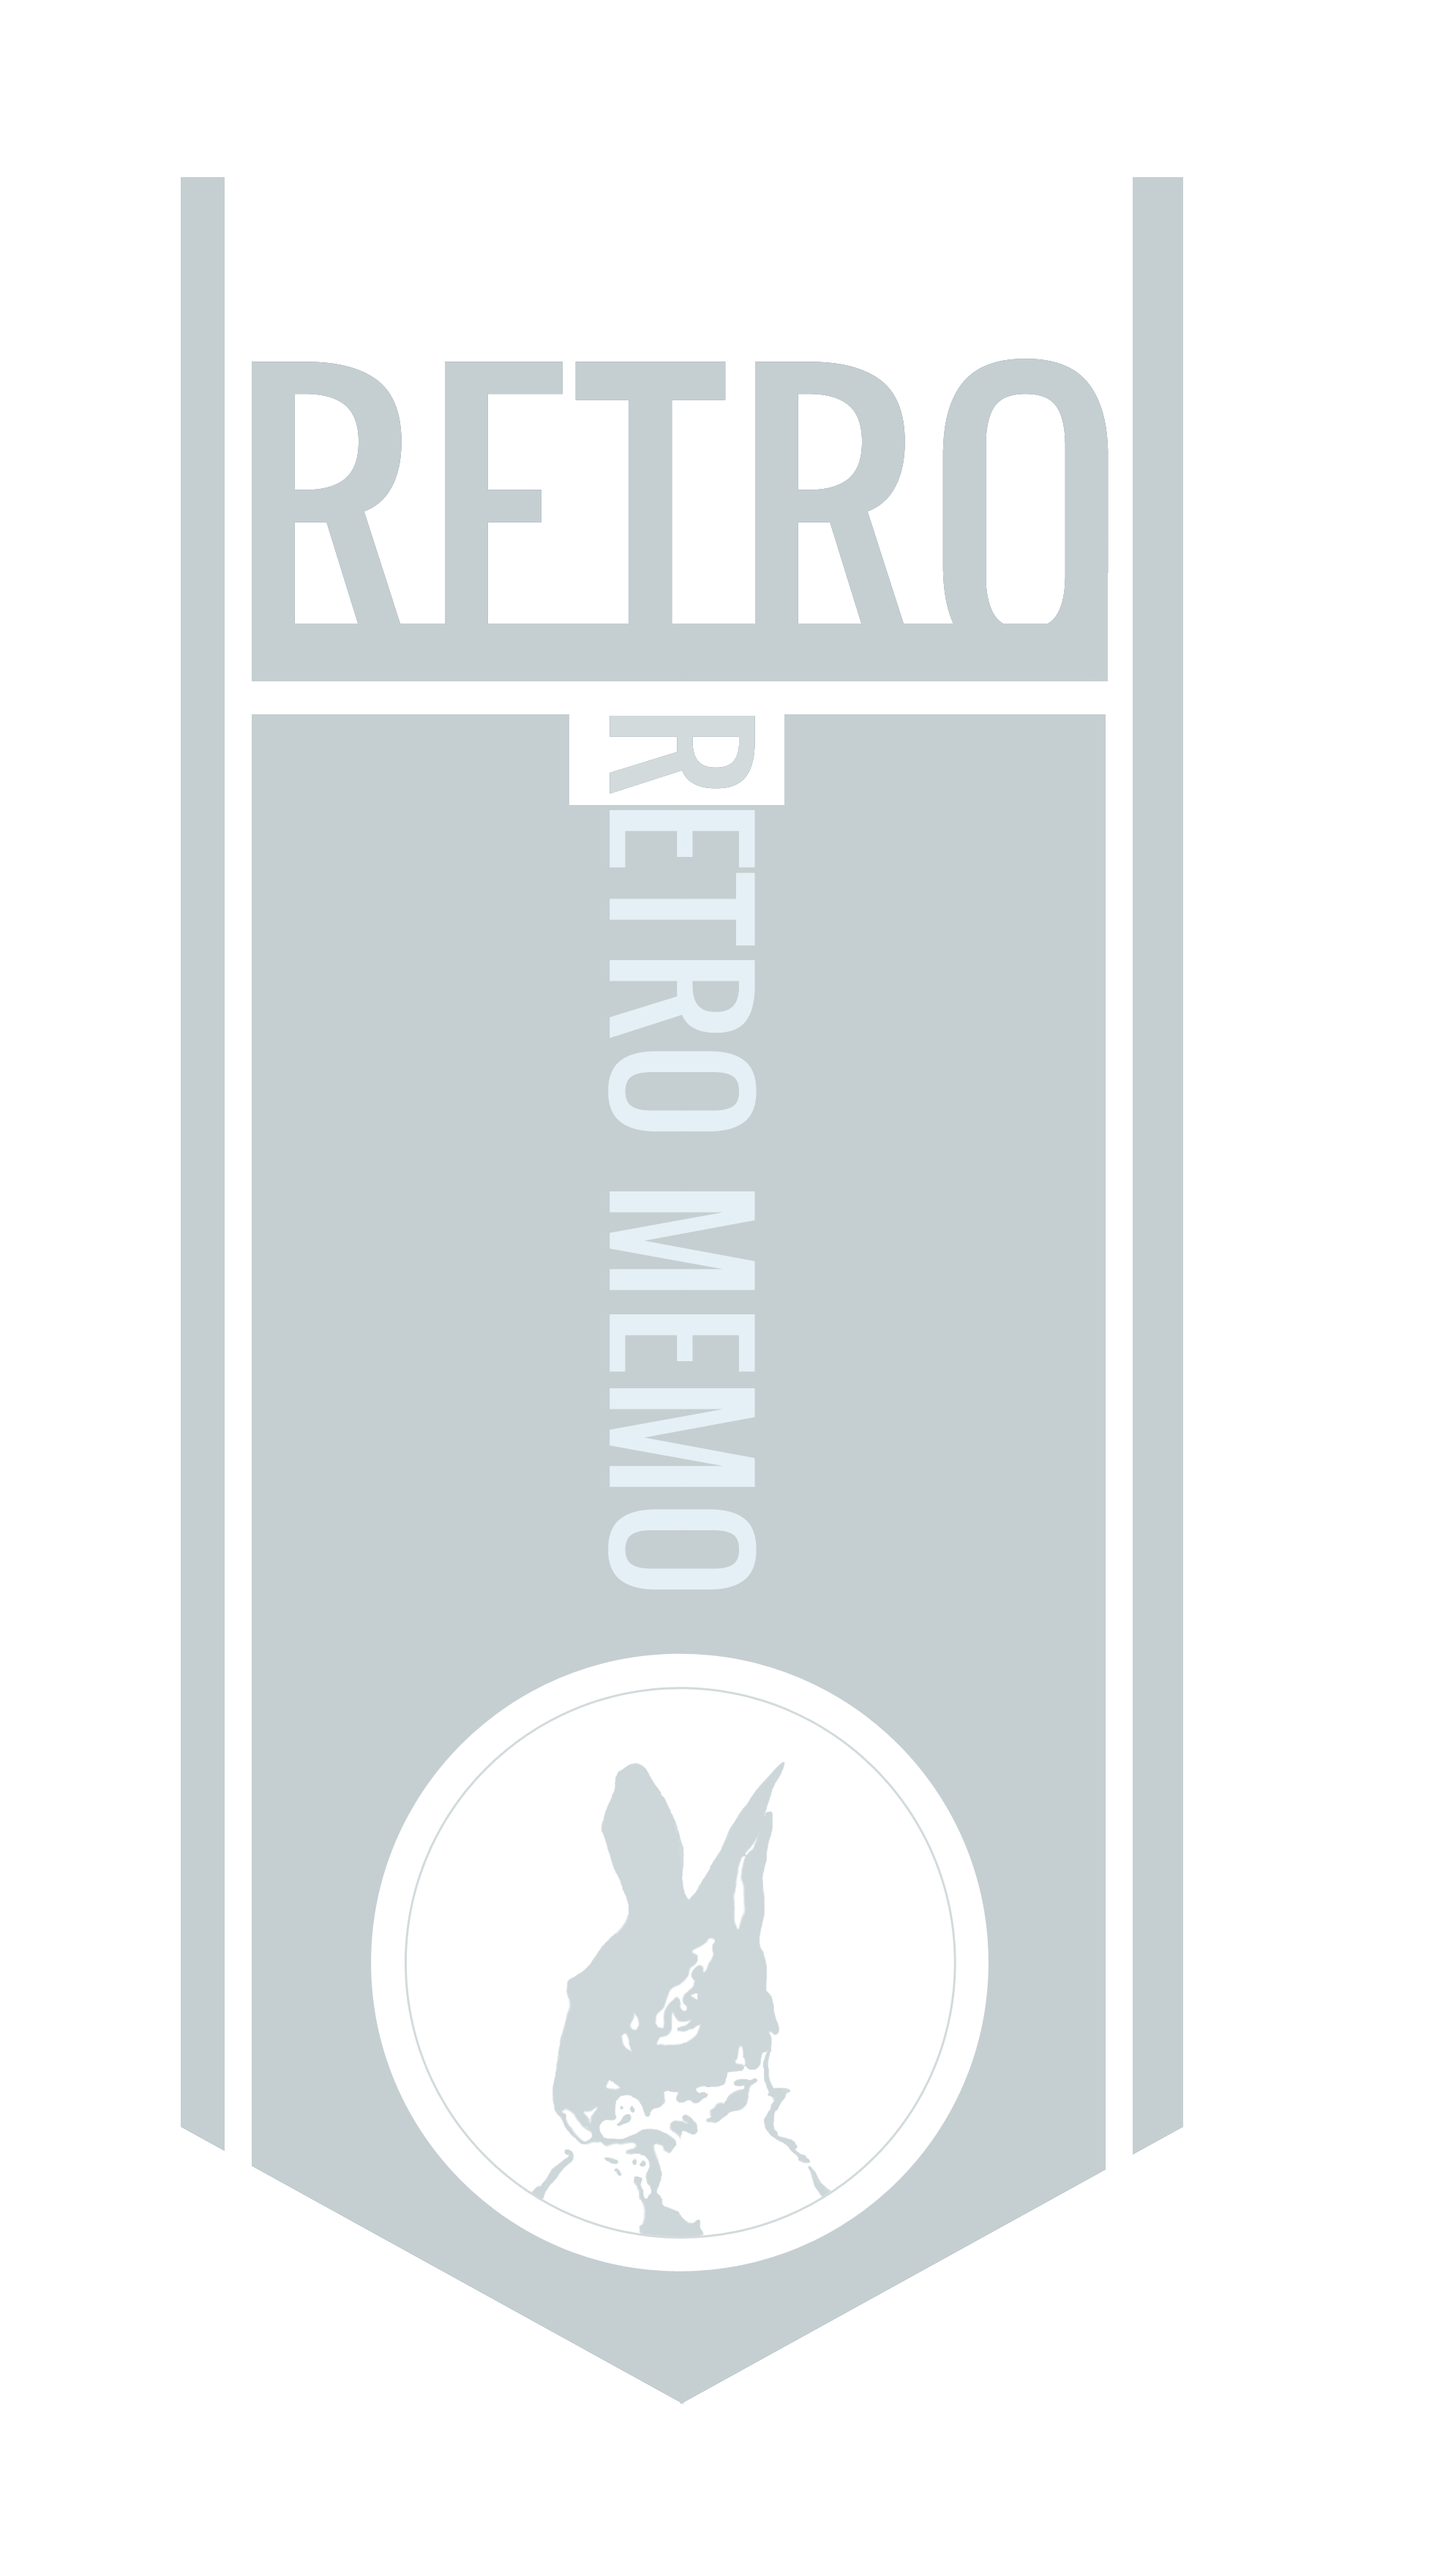
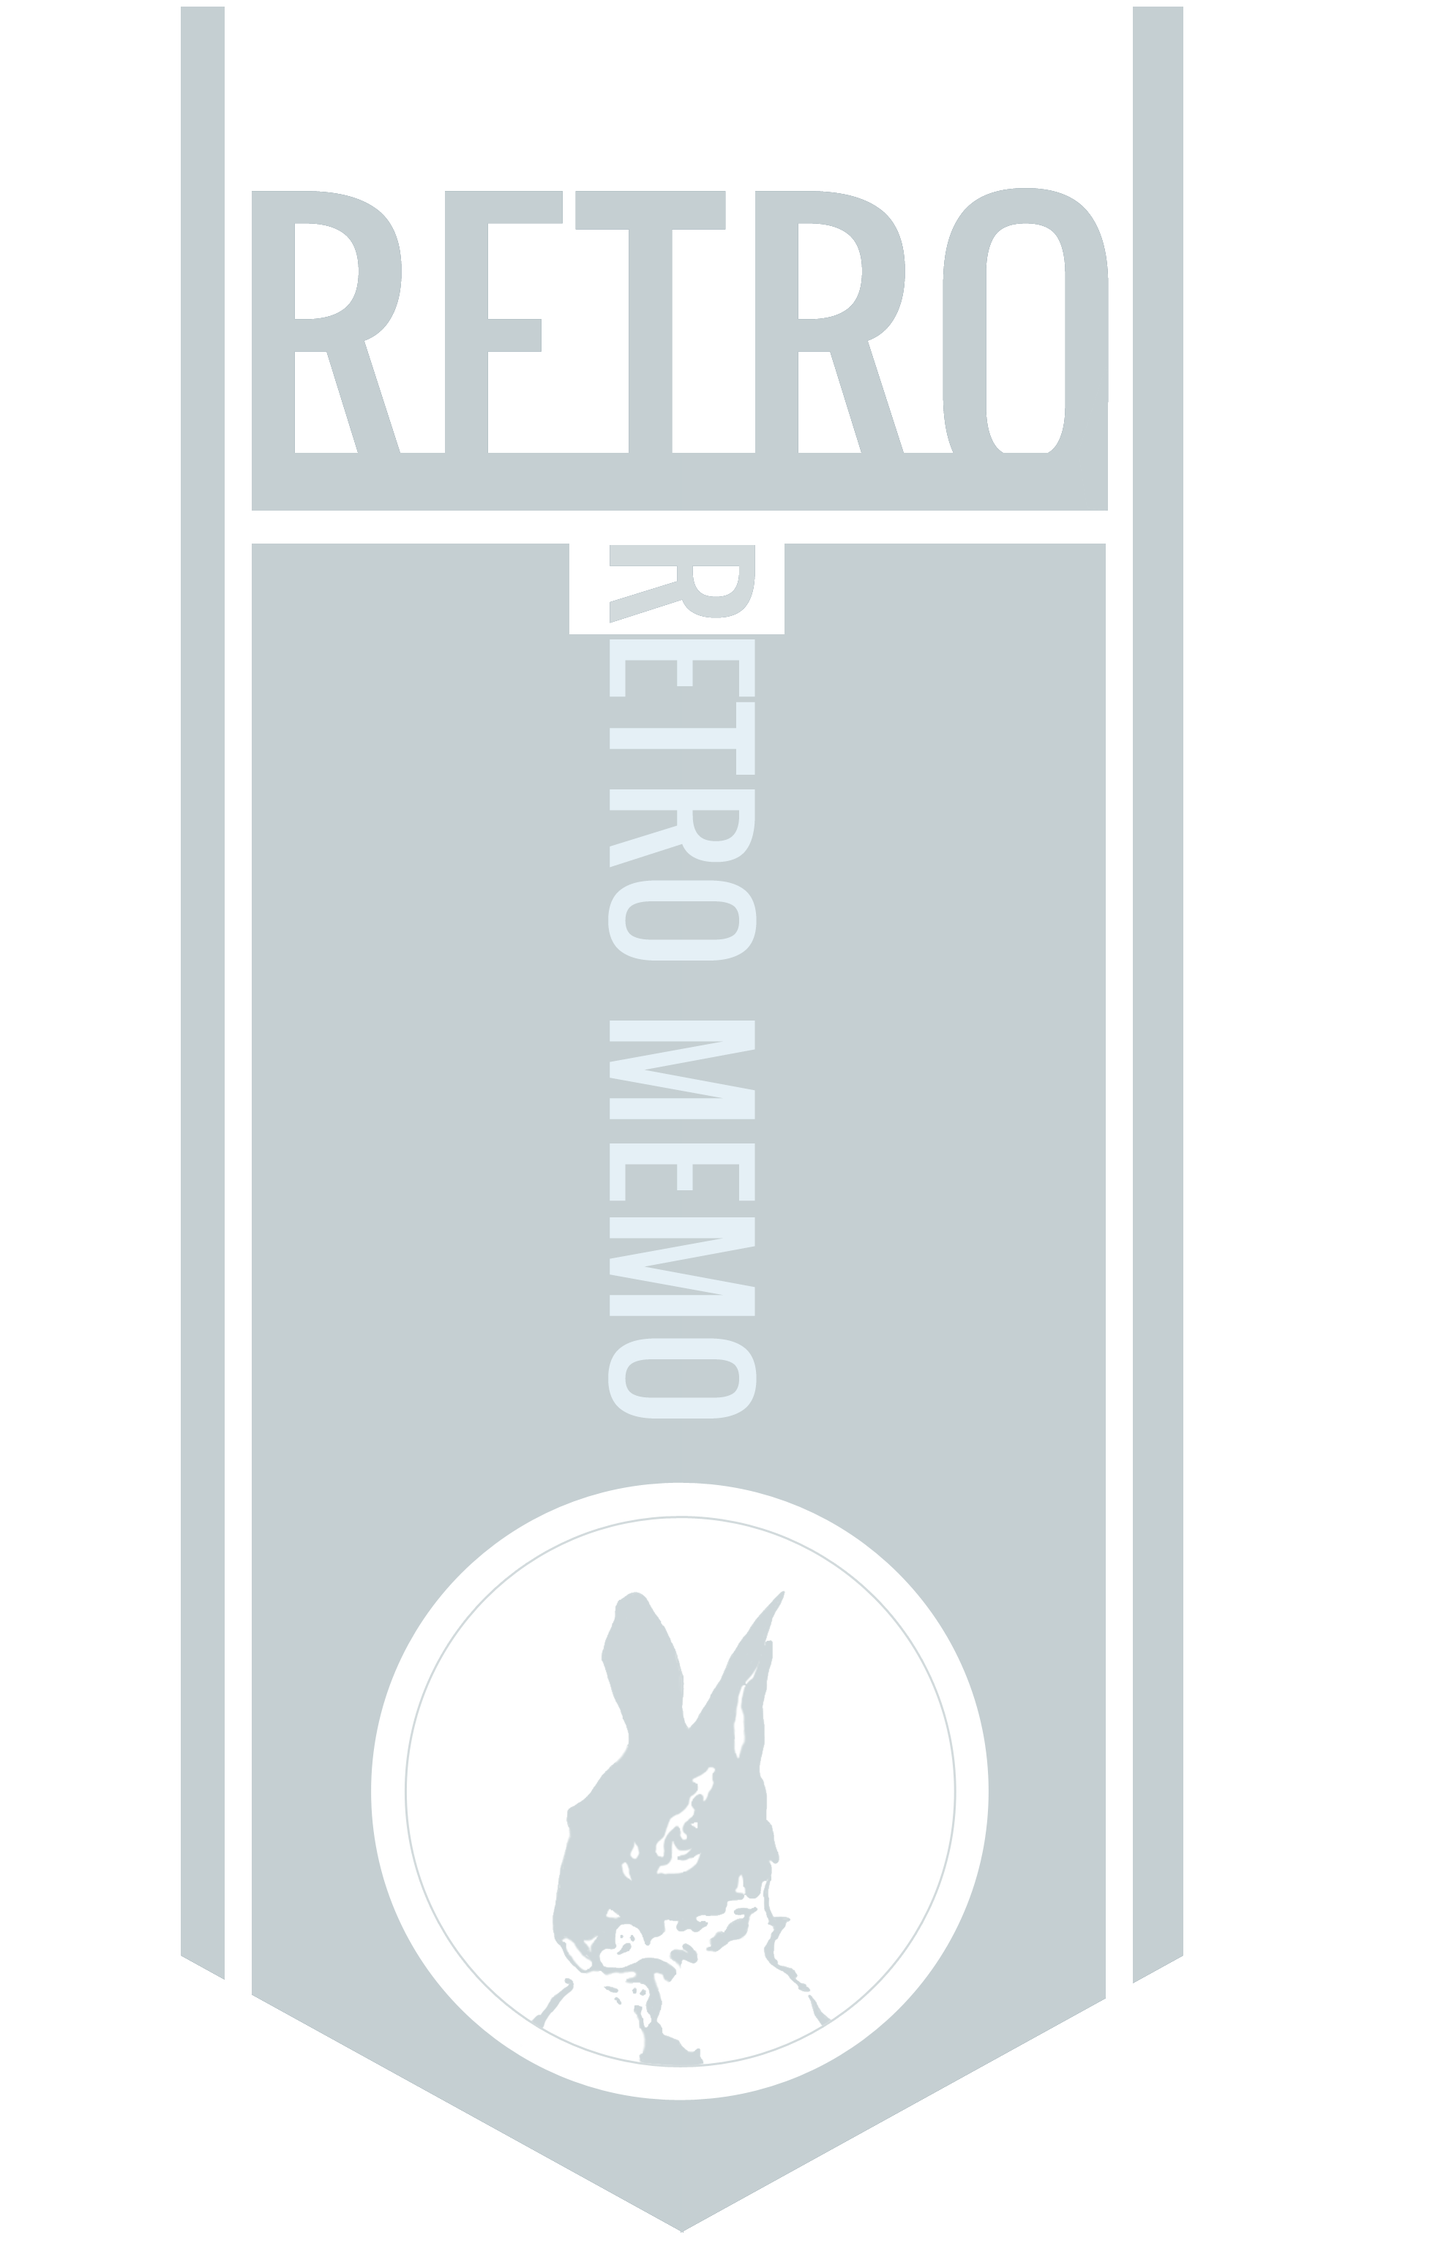
Lots of positioning on end page, but not finished.

Changed region(s): [[0.1242, 0.5267, 0.8382, 1.0], [0.1242, 0.0, 0.7761, 0.4958], [0.7761, 0.0, 0.8382, 0.093]]

diff --git a/public_html/config.js b/public_html/config.js
@@ -265,7 +265,7 @@ var publicationInfo = {
  * the same as the category it corresponds to. */
 var fact = {
 	"Inicjały": "Inicjały to ozdobne litery rozpoczynające rozdział lub akapit. Album zawiera inicjały pochodzące z&nbsp;Włoch, z&nbsp;początku XVI&nbsp;wieku. Bogatą kolekcję ręcznie malowanych i&nbsp;zdobionych liter można podziwiać w&nbsp;<a target='_blank' href='http://www.polona.pl/item/8636953/16/'>Cyfrowej Bibliotece Narodowej Polona</a>.",
-	"Atlas":    "Atlas został wydany w&nbsp;latach 1903-1907 przez Józefa Michała Bazewicza. Stanowi cenne źródło wiadomości geograficznych, historycznych i&nbsp;gospodarczych. Publikację można zobaczyć w&nbsp;<a target='_blank' href='http://zbc.uz.zgora.pl/dlibra/doccontent?id=14646&from=publication'>Zielonogórskiej Bibliotece Cyfrowej</a>.",
+	"Atlas":    "Atlas został wydany w&nbsp;latach 1903-1907 przez Józefa Michała Bazewicza.<br>Stanowi cenne źródło wiadomości geograficznych, historycznych i&nbsp;gospodarczych.<br>Publikację można zobaczyć w&nbsp;<a target='_blank' href='http://zbc.uz.zgora.pl/dlibra/doccontent?id=14646&from=publication'>Zielonogórskiej Bibliotece Cyfrowej</a>.",
 	"Mody":     "Mody Paryzkie były wydawane w&nbsp;latach 1879-1883 w&nbsp;Warszawie. Periodyk przekazywał informacje dotyczące najnowszych trendów modowych, instruował jak wykonać samodzielnie stroje i&nbsp;dodatki, udzielał porad dotyczących dobrego wychowania. Zawierał także utwory literackie, drukowane odcinkami. Z&nbsp;wydawnictwem można się zapoznać w&nbsp;<a target='_blank' href='http://ebuw.uw.edu.pl/dlibra/publication?id=58154&tab=3'>E-Bibliotece Uniwersytetu Warszawskiego</a>.", 
 	"Ssaki":    "Atlas został wydany w&nbsp;roku 1931. Zawiera rysunki i&nbsp;krótkie opisy ssaków, nie tylko z&nbsp;Polski, ale także z&nbsp;krajów egzotycznych. Z&nbsp;publikacją można się zapoznać dzięki <a target='_blank' href='http://www.wbc.poznan.pl/dlibra/publication?id=133115&tab=3'>Łowieckiej Bibliotece Cyfrowej Krzysztofa Daszkiewicza.</a>",
 	"Zioła":    "Atlas został wydany w&nbsp;roku 1925 przez Wydawnictwo M.&nbsp;Arcta w&nbsp;Warszawie. Zawiera 46 kolorowych ilustracji, pomagających w&nbsp;identyfikacji ponad 70 roślin leczniczych. Publikację można obejrzeć w&nbsp;<a target='_blank' href='http://kpbc.umk.pl/dlibra/doccontent?id=39570&from=publication'>Kujawsko-Pomorskiej Bibliotece Cyfrowej</a>.",

diff --git a/public_html/style.css b/public_html/style.css
@@ -17,7 +17,7 @@
 body
 {
 	width: 100%;
-	margin: 0px;
+	margin: 0em;
 	font-size: 60%;
 	color: #403F3D !important;
 }
@@ -363,15 +363,6 @@ button:link, button:visited, button:hover, button:active, button:focus
 	top: 0px;
 	width: 20%;
 	z-index: -1;
-	/*
-	width: 28%;
-	position: absolute;
-	left: 0%;
-	top: 0%;
-	margin-left: -18em;
-	margin-top: -18em;
-	clip: rect(18em,400em,400em,18em);
-	*/
 }
 
 #categoryBox
@@ -399,6 +390,17 @@ button:link, button:visited, button:hover, button:active, button:focus
 }
 
 /* the_game.html */
+#rabbitChevronEnd
+{
+	position: absolute;
+	left: 36%;
+	right: 36%;
+	height: 80%;
+	max-height: 100%;
+	top: 3.5%;
+	z-index: -1;
+}
+
 #badgePictureGame
 {
 	width: 10%;
@@ -416,6 +418,13 @@ button:link, button:visited, button:hover, button:active, button:focus
 }
 
 /* end_game.html */
+#badgePictureEnd
+{
+	width: 10%;
+	position: absolute;
+	right: 10%;
+	bottom: 12%;
+}
 
 #playAgainText
 {
@@ -440,26 +449,45 @@ button:link, button:visited, button:hover, button:active, button:focus
 
 #message
 {
+	position: absolute;
 	text-align: center;
 	width: 100%;
+	top: 20%;
+}
+			
+#congratulationsText
+{
+	position: relative;
+}
+#triesText
+{
+	position: relative;
+}
+#fromText
+{
+	position: relative;
+}
+#factText
+{
+	position: relative;
+}
+#playAgainText
+{
+	position: relative;
 }
 
-#pubImageHolder
+#pubImage
 {
-	width: 400px;
-	margin: 10px;
-	float: right;
+	width: 20%;
+	position: absolute;
+	top: 70%;
+	right: 10%;
+	width: 200px;
+	height: 200px;
 }
-
-#publicationImg
+#pubImage img
 {
-	width: 300px;
-	height: 300px;
-}
-
-#publicationImg img
-{
-	width: 300px;
-	height: 300px;
+	width: 200px;
+	height: 200px;
 }
 

diff --git a/public_html/end_game.html b/public_html/end_game.html
@@ -9,17 +9,21 @@
 		<link href="style.css" rel="stylesheet">
 	</head>
 	<body class="backgroundBlue">
-		<div class="container">
-			<div id="message" class="straightFont">
-				<h2 class="titleFont" id="congratulationsText">Gratulacje</h2>
-				<p id="triesText" class="textFont">Udało Ci się znaleźć wszystkie pary w <span id="tries"></span> próbach.</p> 
-				<p id="fromText" class="textFont">Obrazki pochodziły z publikacji: <span id="publicationName"></span></p>
-				<p id="factText" class="textFont"></p>
-				<div id="playAgainText" onclick="location = 'index.html'">Zagraj jeszcze raz</div>
-			</div>
-			<div id="pubImageHolder">
-				<div id="publicationImg"><a id="piLink" href=""><img id="pi" src="" alt="img"></a></div>
-			</div>   
+		<div id="message">
+			<h2 id="congratulationsText">Gratulacje</h2>
+			<p id="triesText">Udało Ci się znaleźć wszystkie pary w <span id="tries"></span> próbach.</p> 
+			<p id="fromText">Obrazki pochodziły z publikacji: <span id="publicationName"></span></p>
+			<p id="factText"></p>
+			<div id="playAgainText" onclick="location = 'index.html'">Zagraj jeszcze raz</div>
+		</div>
+		<div id="pubImage">
+			<a id="piLink" href=""><img id="pi" src="" alt="img"></a>
+		</div>   
+		<div> 
+			<img id="rabbitChevronEnd" src="images/rabbitChevronDown.png"/>
+		</div>
+		<div>
+			<img id="badgePictureEnd" src="images/badge.png"/>
 		</div>
 		<div>
 			<img id="cloudsTop" src="images/cloudsTop.png"/>
